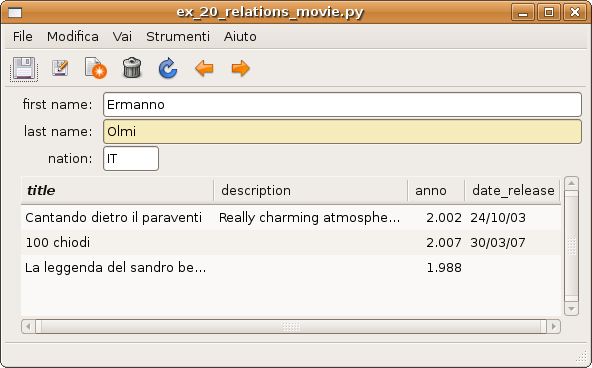
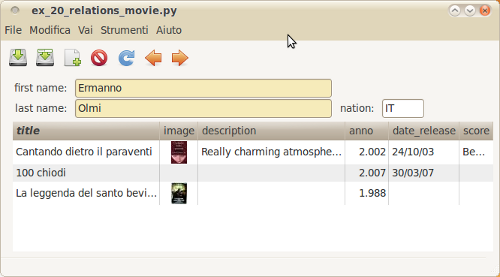
docs: improved mask/relationship docs * * * fix

diff --git a/demo/sql/ex_20_relations_movie.py b/demo/sql/ex_20_relations_movie.py
@@ -9,9 +9,8 @@ the mapping so we pass a class_ attribute that is really a mapped class
 
 lay = """
    first_name
-   last_name
-   nation
-   m2m=movies -
+   last_name   nation
+   m2m=movies - - -
 """
 
 t = SqlMask(model.Director, dbproxy=db, layout=lay)

diff --git a/doc/sqlkit/mask.rst b/doc/sqlkit/mask.rst
@@ -4,68 +4,45 @@
  SqlMask
 =========
 
-.. image:: ../img/mask-demo.png
+.. image:: ../img/layout-simple.png
    :align: right
-   :scale: 50%
-   :class: preview
-
-.. autoclass:: sqlkit.widgets.SqlMask()
-   :members: get_widget, clear_mask, set_frame_label
-
-Introspection of the table is used to determine which widgets will be used to
-edit the data. The following rules are applied:
-
-  :varchar: gtk.Entry
-     
-  :numbers: gtk.Entry with right alignment
-
-  :bool: gtk.CheckBox
-
-  :text: gtk.Text
-  
-  :FKey: fk_edit (a custom ComboBoxEntry)
-
-  :date/datetime: dateedit (entry + arrow for calendar + time)
-
-  :default: gtk.Entry
-
-All fields will have a label that is sensitive to mouse clicks. A mouse
-click pops up a :ref:`filter <filters>` widget.
 
 layout
 =======
 
-The most powerful part of SqlMask is the ability to define the layout via
-simple text description. In the examples you'll see how easy it is to create
+The most powerful part of SqlMask is the ability to **define the layout via
+simple text description**. In the examples you'll see how easy it is to create
 fancy layout that have all nice gtk Widgets like expanders, notebooks, panes
 and it makes it incredibly easy to nest SqlTables into SqlMask to build
-complex layout that represent also :ref:`relationships`.
+complex layouts that can also represent :ref:`relationships`.
+
+If you know ReST language and glade, it relates to glade as ReSt to html.
 
 If no layout is provided a flat one will be generated on the fly.
-
-.. image:: ../img/layout-simple.png
-   :align: right
 
 The key is that a textual layout is parsed to see if the token are
 recognized as fields of the table that the mask is editing, in which case
 introspection is done to understand which widget should be used to edit the
 data (according to rules above) and a label is added::
 
-   title
-   date_release
-   L=description TXS=description
-   director_id
+   mylayout = """
+      image
+      title
+      date_release
+      TXS=description
+      director_id
+   """
+   m = SqlMask(model.Movie, layout=mylayout, ...)
 
-will show a mask with an entry, a date a text and a fkey. Title and
-director_id will be already instrumented with completion: director_id will
-try to complete choosing the values of directors from the director table,
-title will suggest completion based on title present in the table (and in
-this case may not be very useful). Description would render is am entry as
-it's a varchar, we wanted to "cast" it to text so we had to explicitly add
-also a token for the label. L is the identified for a sensitive label (a
-gtk.Label inside a gtk.Event) and TX is the identifier or a scrolled text.
+will creare a mask with an image, an entry, a date a text and a
+fkey. ``title`` and ``director_id`` will be already instrumented with
+completion: ``director_id`` will try to complete choosing the values of
+directors from the ``director`` table, ``title`` will suggest completion based
+on title present in the table (and in this case may not be very
+useful). ``description`` would render as an entry as it's a *varchar*, we wanted
+to "cast" it to *text* using ``TXS=``. 
 
-The description language you can use is petty rich (and dynamic, so you can
+The description language you can use is pretty rich (and dynamic, so you can
 add your custom made widgets): you'd better have  a look at the demo of
 sqlkit.layout that you find in sqlkit.demo.layout
 
@@ -83,12 +60,15 @@ attribute of the SqlWidget. In example 26 we use::
   Tbl = t.widgets['T.a']
   Tbl.get_parent().child_set_property(Tbl, 'y-options', gtk.EXPAND|gtk.FILL)
 
-that changes pack properties to a gtk.Table whose name is ``T.a``
+that changes pack properties to a gtk.Table whose name is ``T.a``. If you
+have ipython you can start the demo with option -i to gain an interactive
+shell to play with an experiment with the widgets. By default each field has
+a label whose key in widgets dict is ``l=field_name`` while each entry is
+``e=field_name``. 
 
 
 Shortcuts
 ----------
-
 
 :mouse scrolling: allows to browse the records that have been loaded by a
    reload operation
@@ -111,6 +91,11 @@ Signals
      :param obj: the object currently selected or None
 
 .. versionadded:: 0.8.8
+
+.. image:: ../img/mask-demo.png
+   :align: right
+   :scale: 50%
+   :class: preview
 
 .. _save-as:
 
@@ -152,3 +137,27 @@ It's important you understand exactly what it does so that:
    not visible that field will not get copied. You may have problems if
    required fields are not visible. To allow to fill with new values a
    :ref:`hook <hooks>` is invoked named :ref:`on_save_as <on_save_as>`.
+
+.. autoclass:: sqlkit.widgets.SqlMask()
+   :members: get_widget, clear_mask, set_frame_label
+
+Introspection of the table is used to determine which widgets will be used to
+edit the data. The following rules are applied:
+
+  :varchar: gtk.Entry
+     
+  :numbers: gtk.Entry with right alignment
+
+  :bool: gtk.CheckBox
+
+  :text: gtk.Text
+  
+  :FKey: fk_edit (a custom ComboBoxEntry)
+
+  :date/datetime: dateedit (entry + arrow for calendar + time)
+
+  :default: gtk.Entry
+
+All fields will have a label that is sensitive to mouse clicks. A mouse
+click pops up a :ref:`filter <filters>` widget.
+

diff --git a/doc/sqlkit/relationship.rst b/doc/sqlkit/relationship.rst
@@ -17,34 +17,37 @@ One2Many in a SqlMak
 
 This is a very powerful feature of ``sqlkit`` that is built on top of
 ``sqlalchemy``'s mechanism of properties and session and on the ability of
-``layout`` to let you define in a symbolic way a widget.
+``layout`` to let you define a widget in a symbolic way.
 
-In the following example we will use a ``Mask`` to represent Directors 
-and a ``Table`` to represent films, connected to the first by a OneToMany
+In the following example we will use a ``SqlMask`` to represent ``Directors`` 
+and a ``SqlTable`` to represent films, connected to the first by a OneToMany
 relationship.
 
 Suppose you already define a couple of tables in sqlalchemy, we will do it
 using elixir_ that slightly simplifies the syntax, in the package the demo
 uses declarative layer instead::
 
-  class Director(elixir.Entity):
-      last_name = elixir.Field(elixir.String(60))
-      first_name = elixir.Field(elixir.String(60))
-      movies = elixir.OneToMany('Movie', inverse='director', )
-      elixir.using_options(tablename='director')
-  
-      def __repr__(self):
-          return u'<Director: %s>' %self.last_name
-  
-  class Movie(elixir.Entity):
-      title = elixir.Field(elixir.String(60))
-      year = elixir.Field(elixir.Integer())
-      director = elixir.ManyToOne('Director', inverse='movies' )
-      elixir.using_options(tablename='movie')
-  
-      def __repr__(self):
-          return u'<Movie: %s>' % self.title
-  
+   class Director(Base):
+       __tablename__ = 'director'
+       id             = Column(Integer, primary_key=True)
+       last_name   = Column(String(60), nullable=False)
+       first_name  = Column(String(60), nullable=False)
+       nation      = Column(String(6))
+
+       movies      = relation('Movie', backref='director', cascade='all, delete-orphan',)
+
+   class Movie(Base):
+       __tablename__  = 'movie'
+       id             = Column(Integer, primary_key=True)
+       title          = Column(String(60), nullable=False)
+       image          = Column(String(250), info={'render' : 'image', 
+                              'base_dir' : './images', 'thumbnail_size' : (30,30)})
+       description    = Column(String(512))
+       year           = Column(Integer())
+       date_release   = Column(Date())
+       director_id    = Column(Integer, ForeignKey('director.id'), nullable=False,
+			       info={'attach_instance': 'director'})
+
 To get a mask that:
  
  1. lets you see director and films together
@@ -52,16 +55,16 @@ To get a mask that:
 
 You just have to start the SqlMask like this::
 
-  lay = """first_name last_name
-         o2m=movies      - - -
+  lay = """first_name 
+           last_name  nation
+           o2m=movies      - - -
          """
-  SqlMask(Director.mapper, metadata=__metadata__, 
-          session=elixir.session,layout=lay)
+  SqlMask(model.Director,layout=lay, ...)
 
 
 And you will get a mask that looks like this:
 
-.. image:: ../img/director_movies.png
+.. image:: ../img/o2m.png
 
 
 delete behavior
